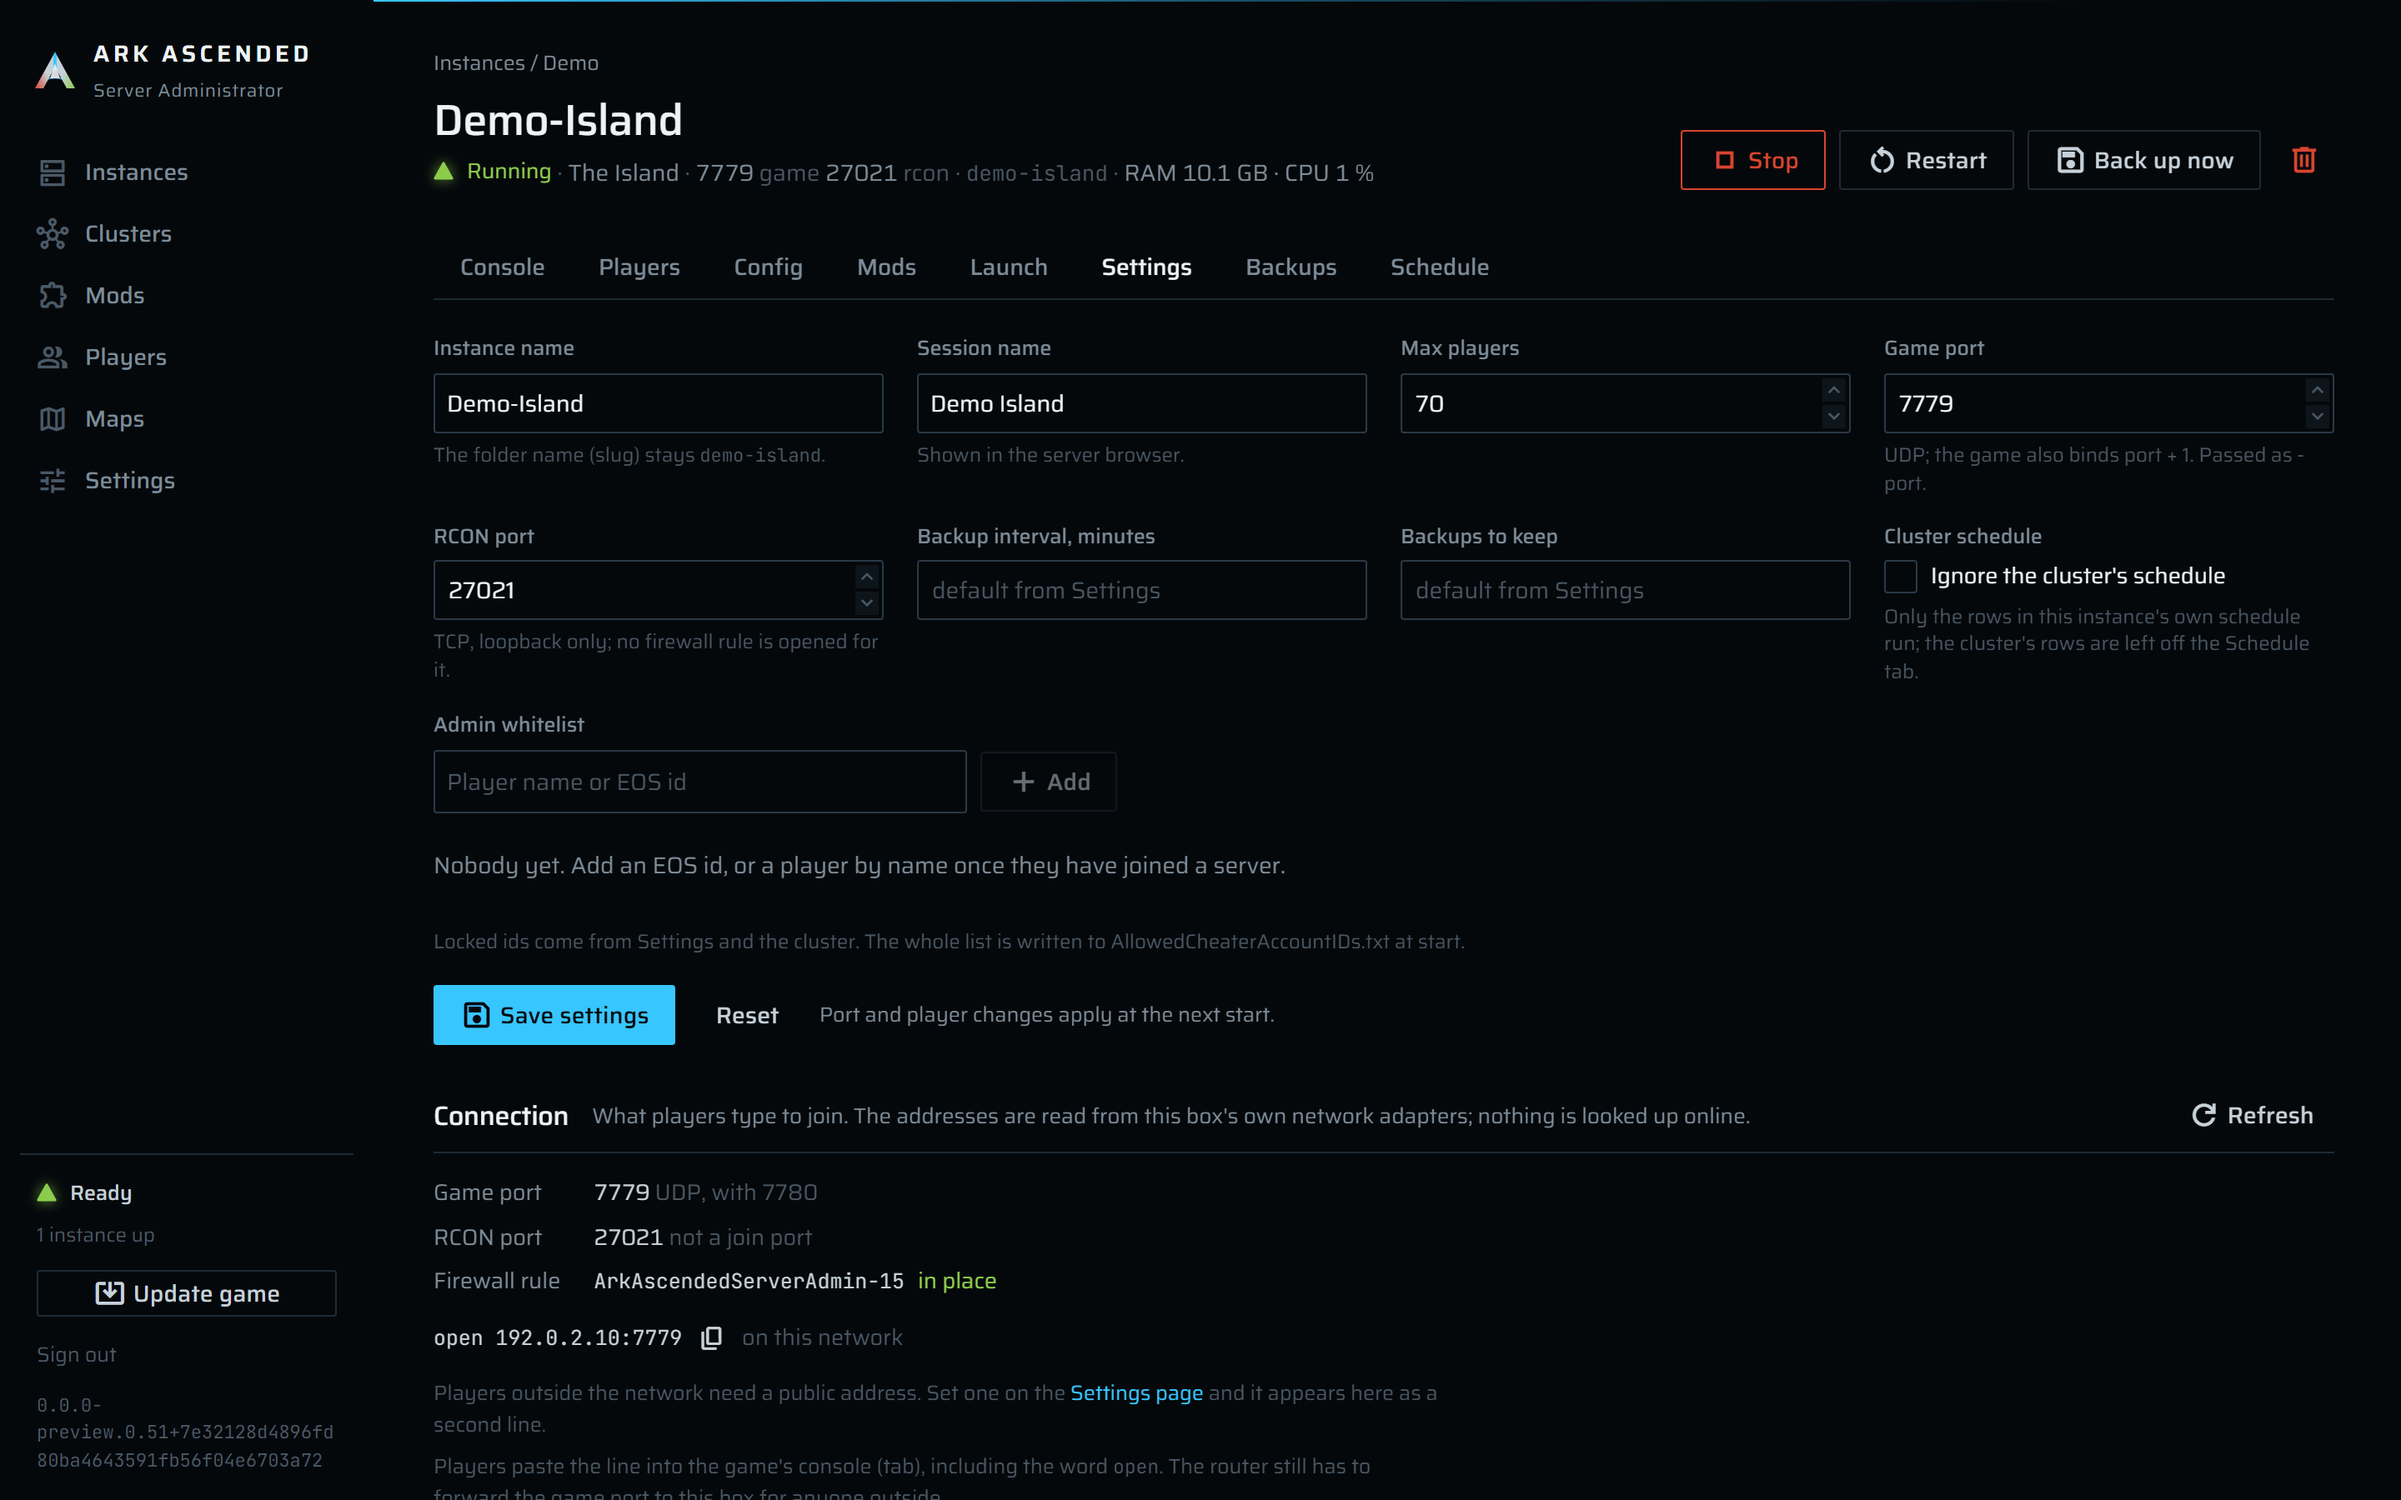
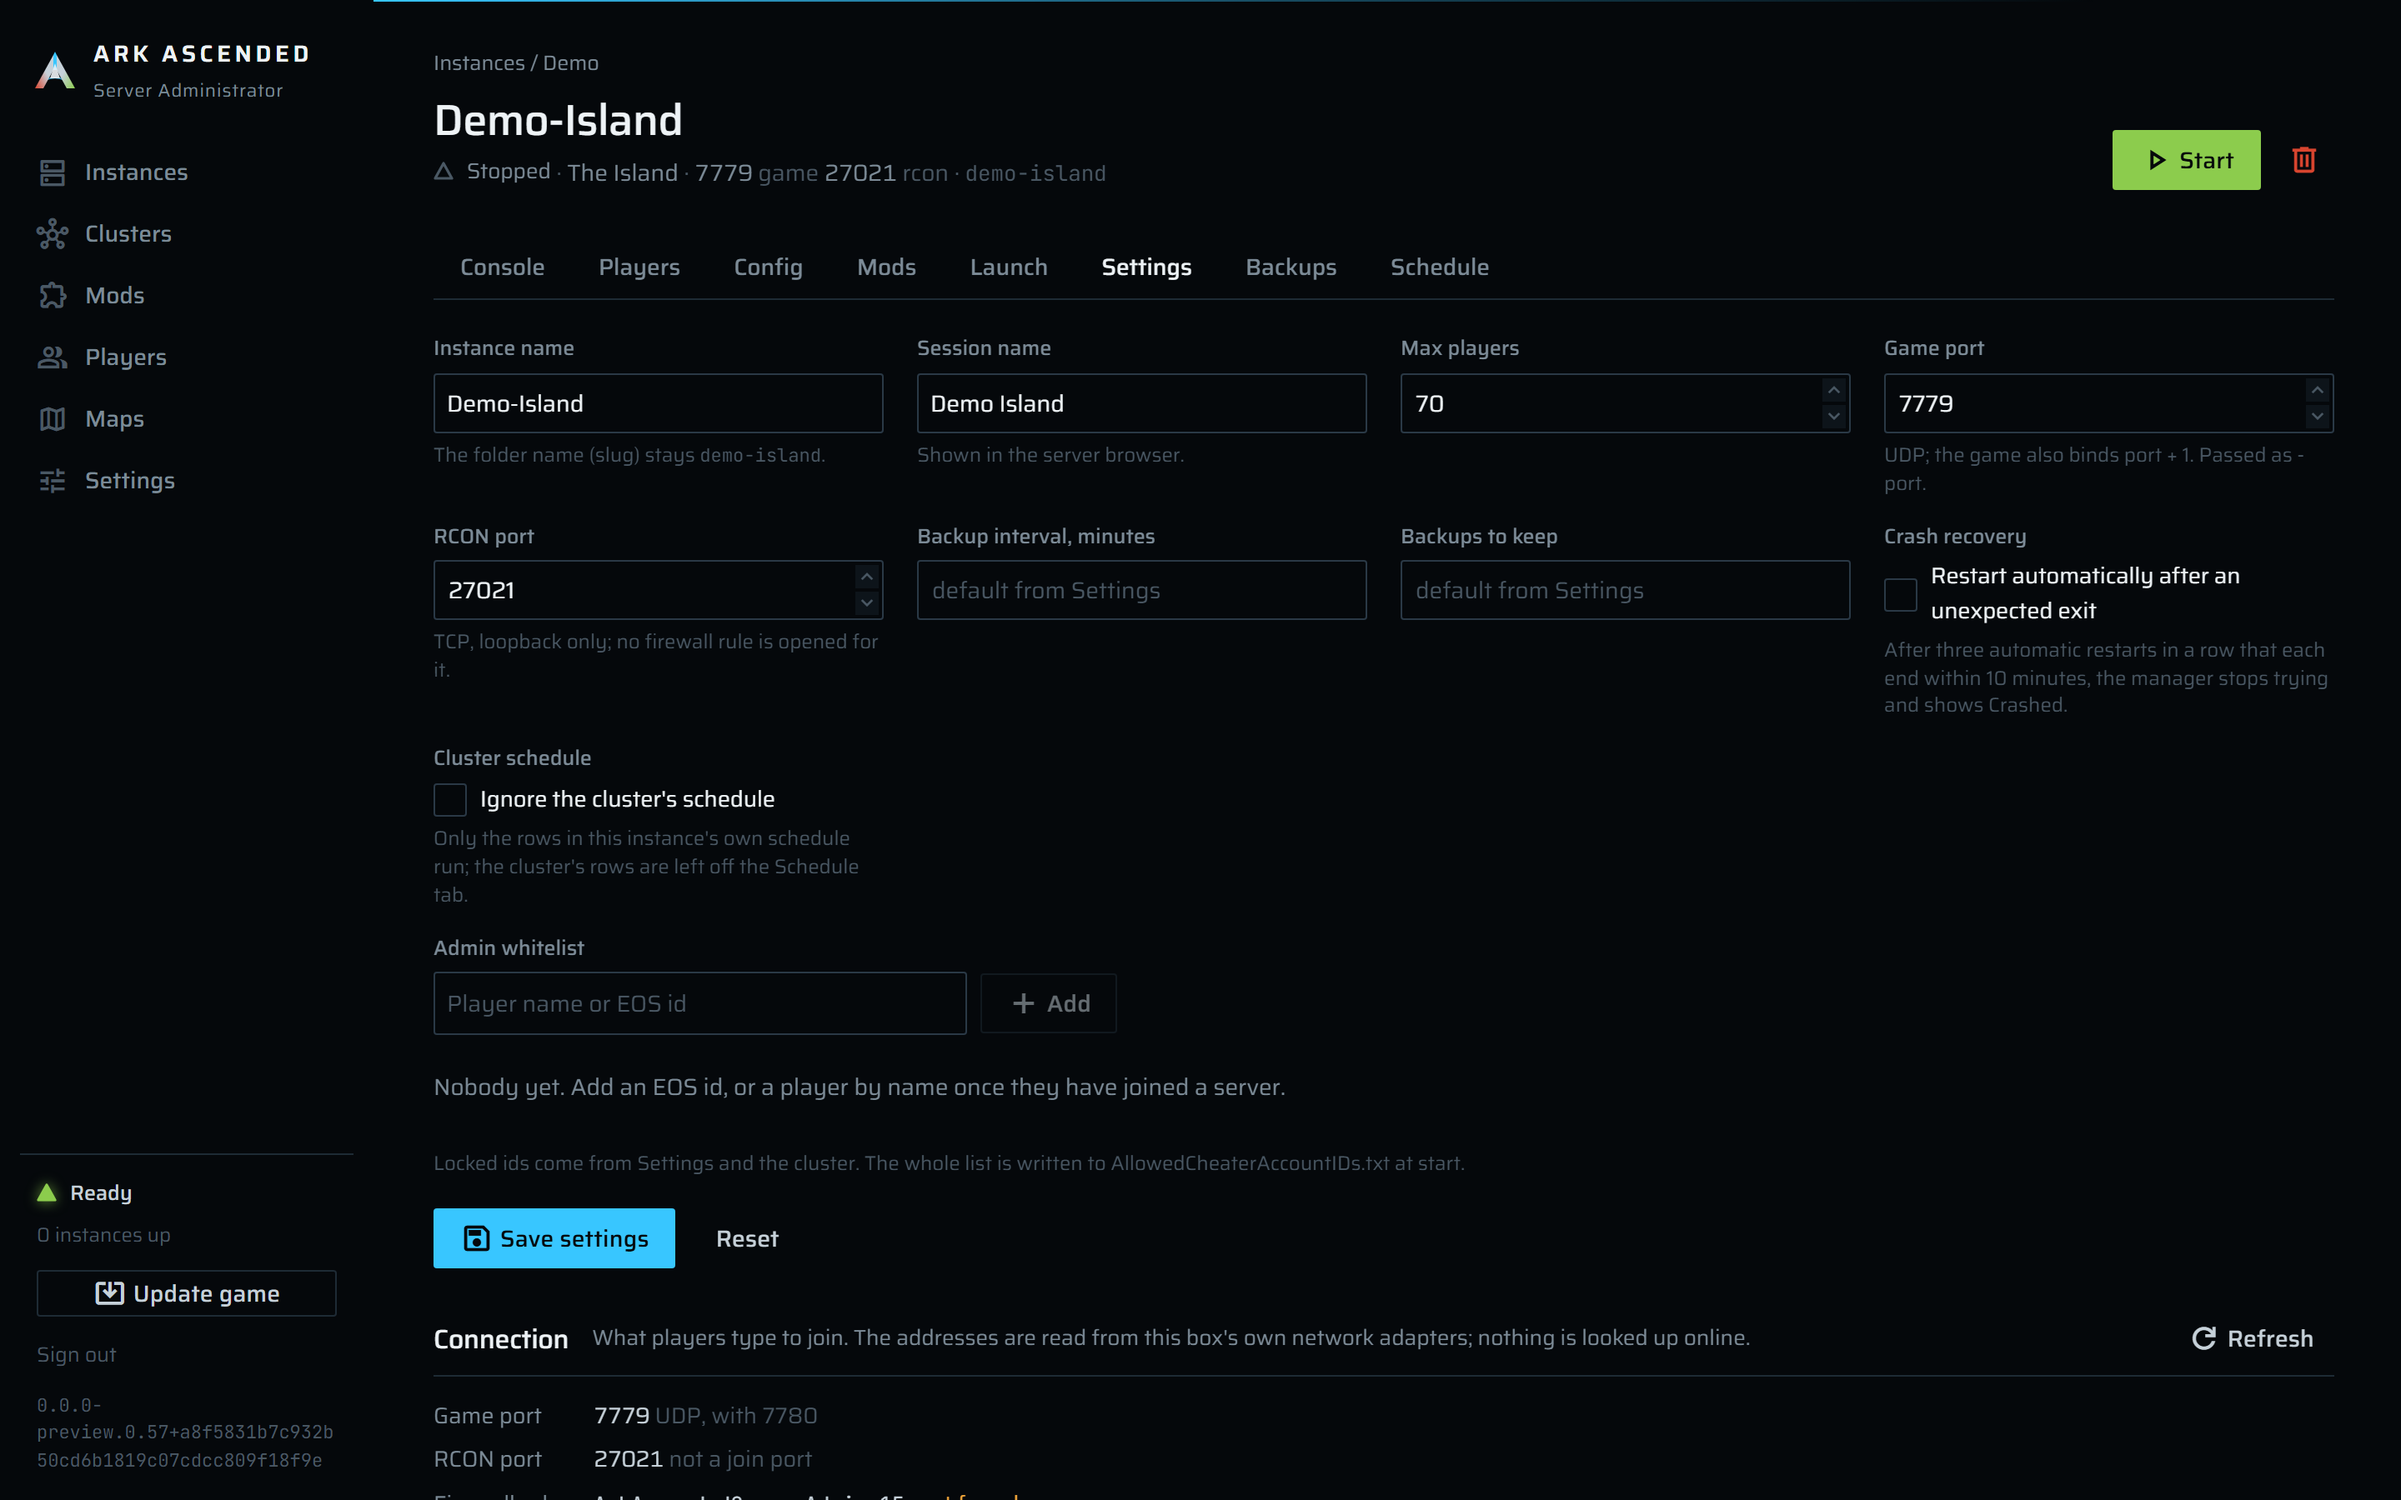
Document automatic restart and the Crashed state; retake the instance settings picture

diff --git a/docs/guide/instances.md b/docs/guide/instances.md
@@ -127,6 +127,13 @@ way out.
 **Restart** is the stop job followed by a start. If the stop is refused or its exit cannot be
 verified, the start is not attempted and the toast carries the stop's reason.
 
+An instance with **Restart automatically after an unexpected exit** ticked on its Settings tab is also
+relaunched on its own when the process dies without a stop from the manager and no update is running.
+The manager waits 5 seconds, then starts it again. If a session ends within 10 minutes of starting, it
+counts; after three such restarts in a row the next exit is not answered and the state becomes
+**Crashed**. A session that lasts 10 minutes or longer resets the count, and so does any start you press.
+The attempts are written to the console (see [console-and-rcon.md](console-and-rcon.md)).
+
 ## Finding servers again after a service restart
 
 Game processes are not killed when the service stops. That is on purpose: the servers stay up through
@@ -160,7 +167,7 @@ The header shows the name, the crumb (`Instances / <cluster>`), the state, map, 
 the buttons **Start** / **Stop**, **Restart**, **Back up now**, **Stop now**, and the delete icon;
 while a process is live the slug is followed by `RAM 6.2 GB · CPU 14 %`, the same current reading as the
 dashboard row. The same `changed since launch` pill as the dashboard row closes the line when a mod this
-instance loads was updated on CurseForge after its last start; starting the server clears it. Under it, a notice appears for **Starting, unconfirmed**, **Unreachable**, **Unknown**, or
+instance loads was updated on CurseForge after its last start; starting the server clears it. Under it, a notice appears for **Starting, unconfirmed**, **Unreachable**, **Crashed**, **Unknown**, or
 **Identity not saved** (with **Retry persist**), and `Start would be refused.` whenever the launch
 preview finds a problem while the instance is stopped.
 
@@ -171,7 +178,7 @@ preview finds a problem while the instance is stopped.
 | **Config** | Standalone: the `GameUserSettings.ini` and `Game.ini` editors. Member: `INI files come from the <cluster> cluster.` Both: the **Overrides** table with **Add override**. [configuration-files.md](configuration-files.md). |
 | **Mods** | The ordered mod list: the map's mod and cluster mods locked, the instance's own below. Under it, "Not in the library?" takes a CurseForge project id, or a search when a key is set, and puts the mod in the library and on this list in one press. [mods.md](mods.md). |
 | **Launch** | The flags editor and `What a start would run`, the exact command line. [launch-options.md](launch-options.md). |
-| **Settings** | **Instance name**, **Session name**, **Max players**, **Game port**, **RCON port**, **Backup interval, minutes**, **Backups to keep**, **Ignore the cluster's schedule** (members only), **Admin whitelist**; **Save settings**, **Reset**. While the process is live: `Port and player changes apply at the next start.` The slug and the map cannot change. Under the form, the **Connection** card ([below](#connection)). |
+| **Settings** | **Instance name**, **Session name**, **Max players**, **Game port**, **RCON port**, **Backup interval, minutes**, **Backups to keep**, **Restart automatically after an unexpected exit**, **Ignore the cluster's schedule** (members only), **Admin whitelist**; **Save settings**, **Reset**. While the process is live: `Port and player changes apply at the next start.` The slug and the map cannot change. Under the form, the **Connection** card ([below](#connection)). |
 | **Backups** | The backup list with outcome, archive name, size, and trigger, a restore icon on each successful row, and the list of restores. [backups.md](backups.md). |
 | **Schedule** | The scheduled actions and their history ([below](#scheduled-actions)). |
 
@@ -315,8 +322,9 @@ files, not the list of them.
 The runtime state you see (**Starting**, **Running**, ...) lives in memory in the process manager and
 is mirrored into the instance row best-effort; the sidebar's `N instances up` and every state
 indicator update from the same events, without a page reload. A crash (an exit without a stop from the
-manager) prints `Server exited unexpectedly (code <n>).` and the state returns to **Stopped**; nothing
-restarts it.
+manager) prints `Server exited unexpectedly (code <n>).` and the state returns to **Stopped**. With automatic
+restart on, the manager then starts it again, up to three times in a row; if that runs out, or the
+relaunch is refused, the state is **Crashed** until you press **Start**. With it off, nothing restarts it.
 
 ## Refusals and failures
 

diff --git a/docs/guide/console-and-rcon.md b/docs/guide/console-and-rcon.md
@@ -165,4 +165,8 @@ and the web UI (which sits behind HTTPS and the login) is the way to reach it re
 | Console | `Log tail stopped: ...` | The tail loop threw; the state is still tracked by the liveness poll. Restart the instance to get the console back. |
 | Console | `Cannot probe RCON: <problem> Check ServerAdminPassword / RCONPort; the process is still watched for exit.` | On re-attach, no credentials could be read; the state is **Unreachable**. |
 | Console | `RCON 'doexit' failed (Connect): ... Continuing with the next step.` | During a stop; nothing took the command, so the job kills the process straight away instead of waiting the graceful timeout out (`doexit was not acknowledged; killing pid <n> now ...`). |
-| Console | `Server exited unexpectedly (code <n>).` | An exit the manager did not ask for. The log above it is the evidence; nothing restarts the server automatically. |
+| Console | `Server exited unexpectedly (code <n>).` | An exit the manager did not ask for. The log above it is the evidence. The server is restarted only if **Restart automatically after an unexpected exit** is on for the instance. |
+| Console | `Restarting after unexpected exit (n/3).` | Automatic restart is relaunching the server after a 5-second pause. |
+| Console | `The server exited unexpectedly again after 3 automatic restarts; automatic restart gave up. Start it to try again.` | Three restarts in a row each ended within 10 minutes. The state is **Crashed** until you press **Start**. |
+| Console | `Automatic restart was refused: <reason>` | The relaunch hit a problem such as a port conflict, an unfinished restore, or a missing executable. The state is **Crashed** with that reason. |
+| Console | `Automatic restart skipped: <reason>.` or `Automatic restart skipped: another operation is using this instance.` | Nothing was relaunched, for example because an update was running or another operation held the instance for 2 minutes. |

diff --git a/docs/guide/README.md b/docs/guide/README.md
@@ -117,6 +117,7 @@ changing, hollow means stopped, red means it wants you.
 | **Running** | RCON answered. | Keeps checking; the backup scheduler picks the instance up. |
 | **Starting, unconfirmed** | `Alive for over 10 minutes without answering RCON.` | Keeps trying. Check `ServerAdminPassword` and `RCONPort`. |
 | **Unreachable** | A re-attached process whose RCON has not answered in 10 minutes, or one whose generated `GameUserSettings.ini` has gone missing. | Watches for the process to exit. A stop still tries `doexit` when the credentials were readable and kills as soon as it goes unanswered; without them it skips the command and waits the graceful timeout out first. |
+| **Crashed** | The server exited without being stopped, and automatic restart gave up after three tries (or the relaunch was refused). The label shows how many restarts were tried, for example `Crashed · 3 restarts`. | Nothing more. **Start** clears it. It is kept in memory only, so a service restart shows **Stopped**. |
 | **Stopping** | The stop is running: countdown, `doexit`, wait, kill if it has to. | **Stop now** skips the countdown; once the exit has been requested it reads **Closing…** and is disabled until the process is gone. |
 | **Identity not saved** | `The process runs but its PID could not be saved.` | The server is fine. Click **Retry persist** on the instance page. |
 | **Unknown** | `More than one process matched; nothing is done automatically.` Two or more `ArkAscendedServer.exe` under `Instances\` carry this instance's slug. | Nothing. **Start** is disabled. Stop the extra processes by hand and restart the service. |

diff --git a/docs/guide/troubleshooting.md b/docs/guide/troubleshooting.md
@@ -68,6 +68,10 @@ returns to **Stopped**. The cause is in `ShooterGame.log` above that line: a mod
 download, a map key the server does not know, an INI value it rejects. Read the console tail, or
 the file at `DataRoot\Instances\<slug>\ShooterGame\Saved\Logs\ShooterGame.log`.
 
+If the instance has **Restart automatically after an unexpected exit** on, the manager relaunches it
+up to three times in a row, and the console says so. When all three end within 10 minutes the row
+shows **Crashed** with a restart count and stays that way; fix the cause from the log, then press **Start**.
+
 **Starting, unconfirmed** ("Alive for over 10 minutes without answering RCON."): the process runs
 but RCON never answered. The password in the generated `GameUserSettings.ini` or the RCON port is
 wrong, or the map is still loading on a slow disk. Check the console for the startup markers

diff --git a/README.md b/README.md
@@ -28,7 +28,8 @@ never mix. On top of that:
   what it owns (session name, ports, RCON, player cap) and warns when your text contradicts it.
 - Start goes through a stagger queue and a port check against live OS listeners; stop broadcasts a
   countdown, asks the server to save and exit over RCON, and verifies the exit. A restarted service
-  re-attaches to servers that kept running.
+  re-attaches to servers that kept running. An instance can be set to restart itself after an
+  unexpected exit, up to three times in a row, before it shows Crashed.
 - Each server's `ShooterGame.log` is tailed live in a console, with startup markers and an RCON
   input.
 - Every backup is checked: `saveworld`, wait for the files to settle, snapshot, zip, verify every

diff --git a/docs/guide/backups.md b/docs/guide/backups.md
@@ -144,7 +144,7 @@ runs first, countdown included, and the restore begins once the process has exit
 What a restore does, in order:
 
 1. Takes the instance lock (with cluster data: reserves the cluster, then takes every member's
-   lock) and checks that every affected instance is **Stopped**. A running sibling or an operation
+   lock) and checks that every affected instance is **Stopped** (a **Crashed** instance counts as stopped). A running sibling or an operation
    in progress refuses the restore before anything is touched.
 2. Copies the current world folder (and the cluster folder) whole to
    `DataRoot\Backups\<slug>\_restore-safety\<timestamp>-<n>\`. The last three safety copies per
